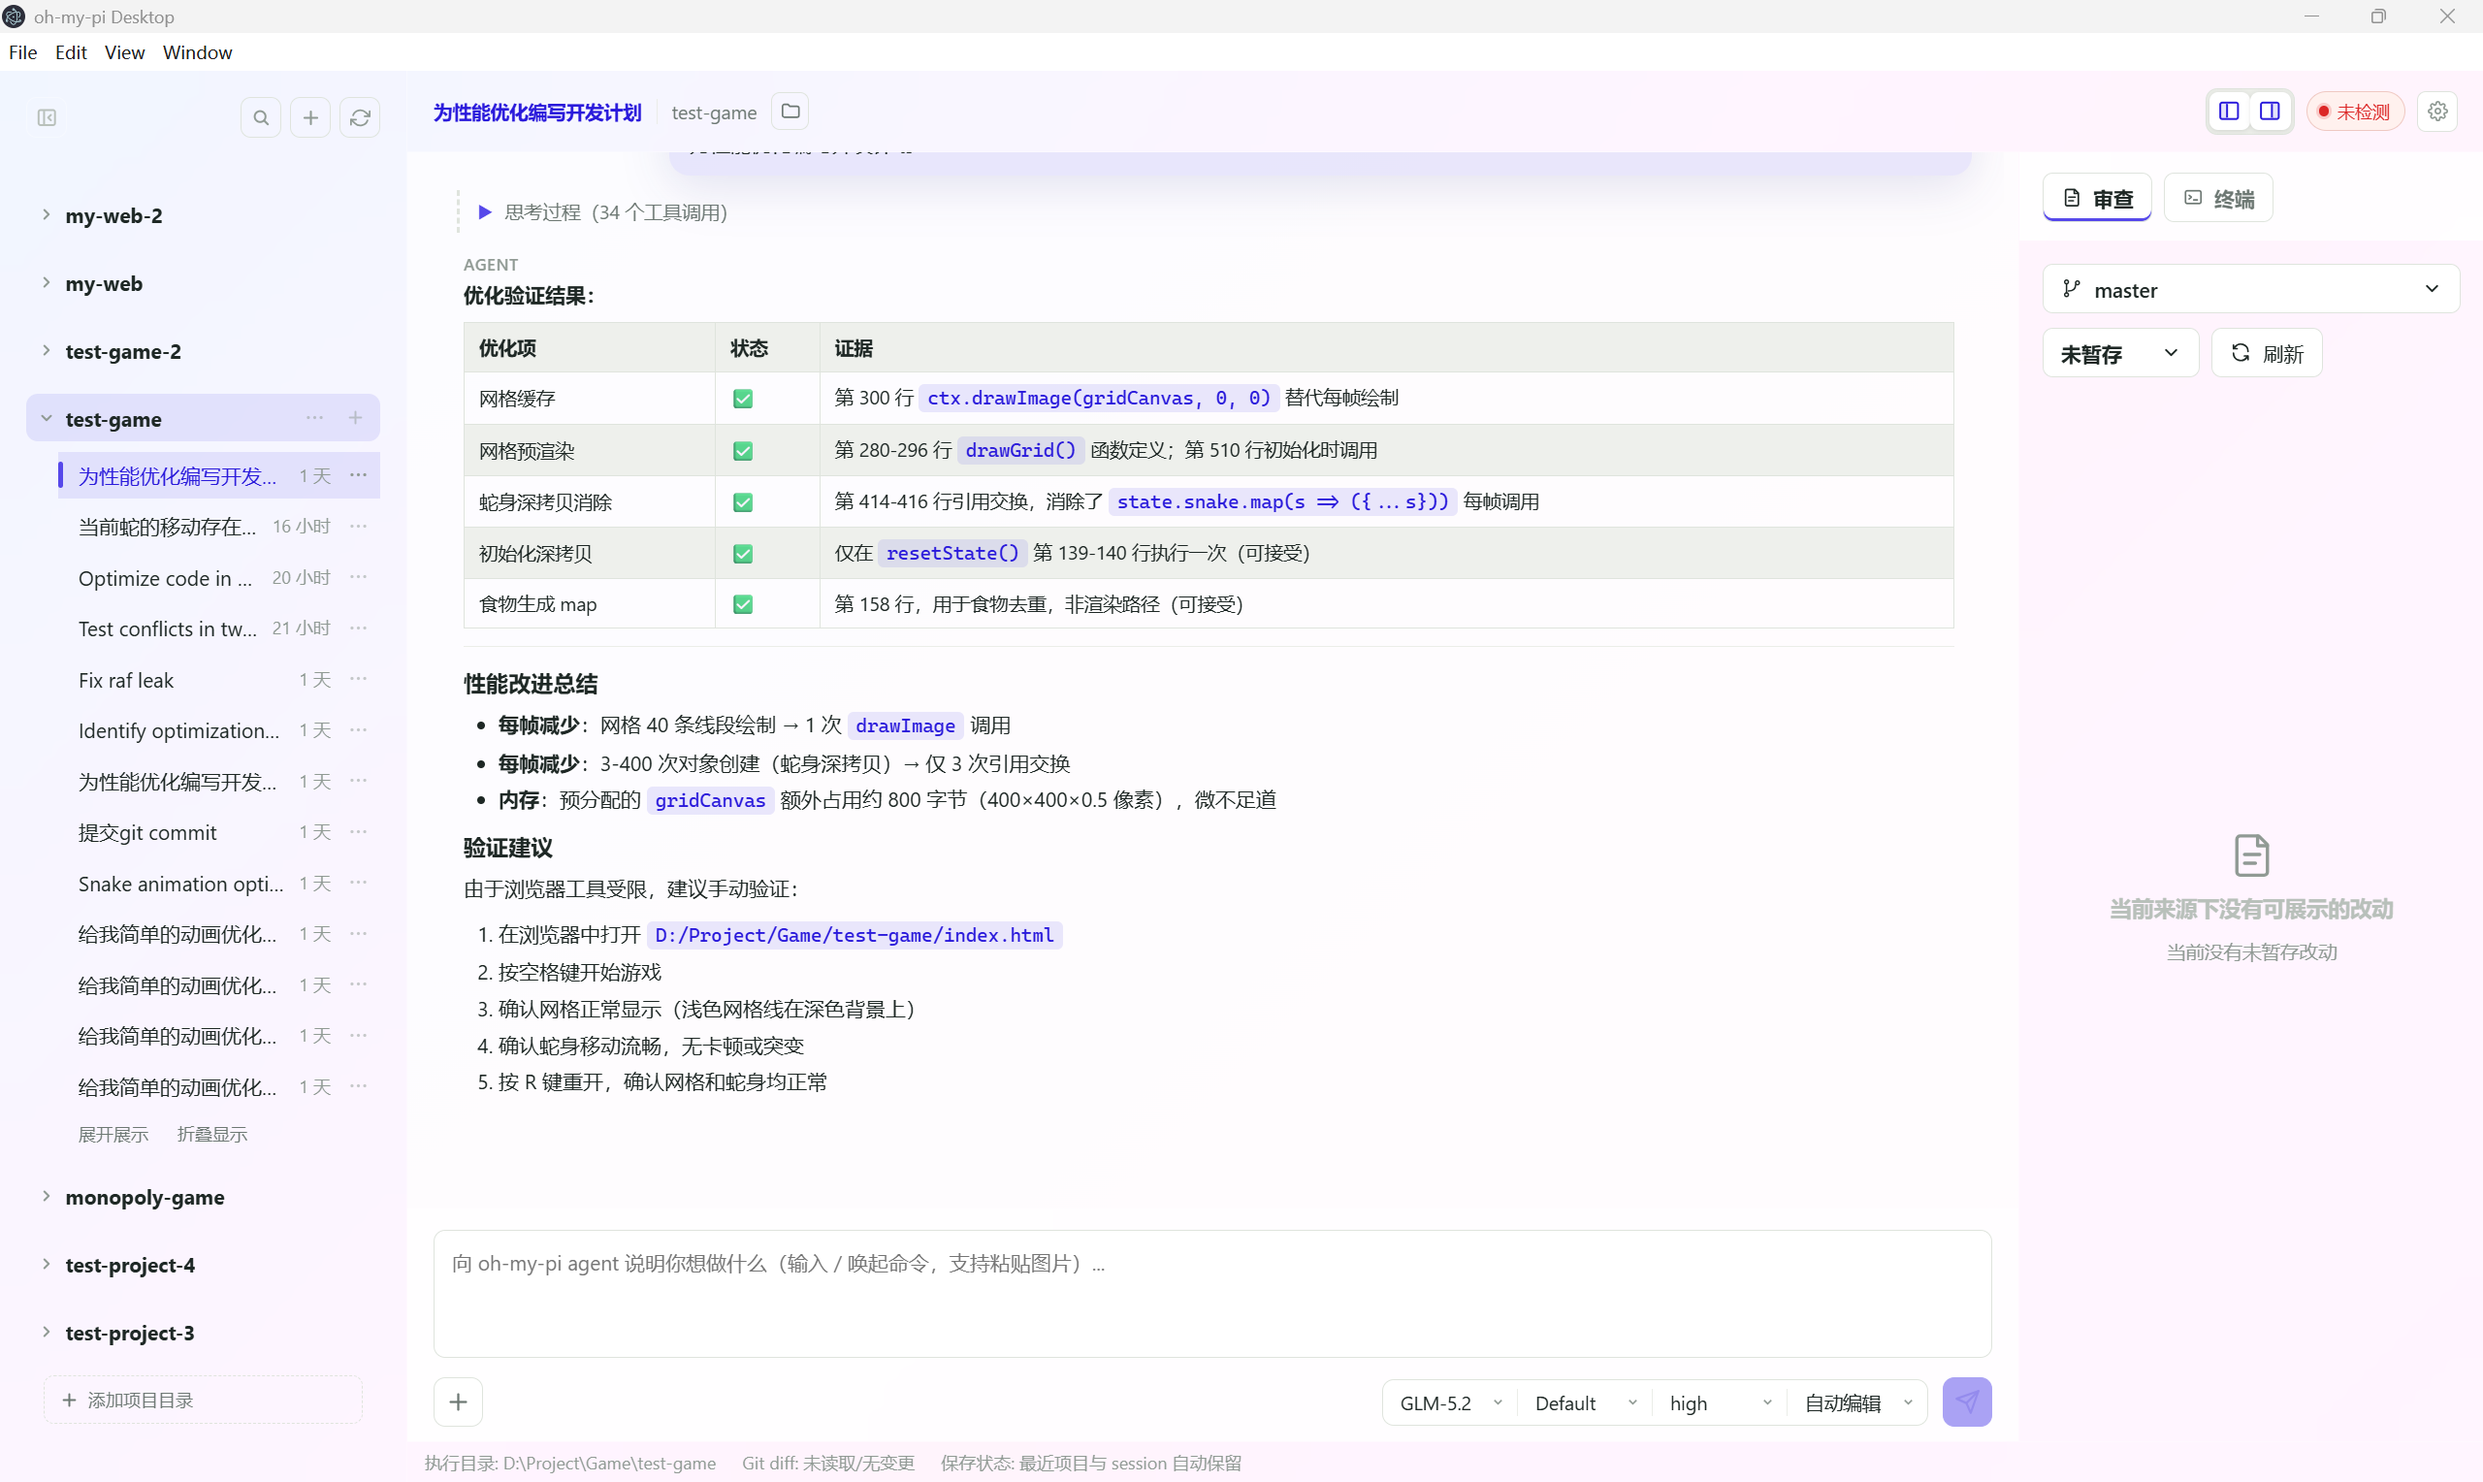
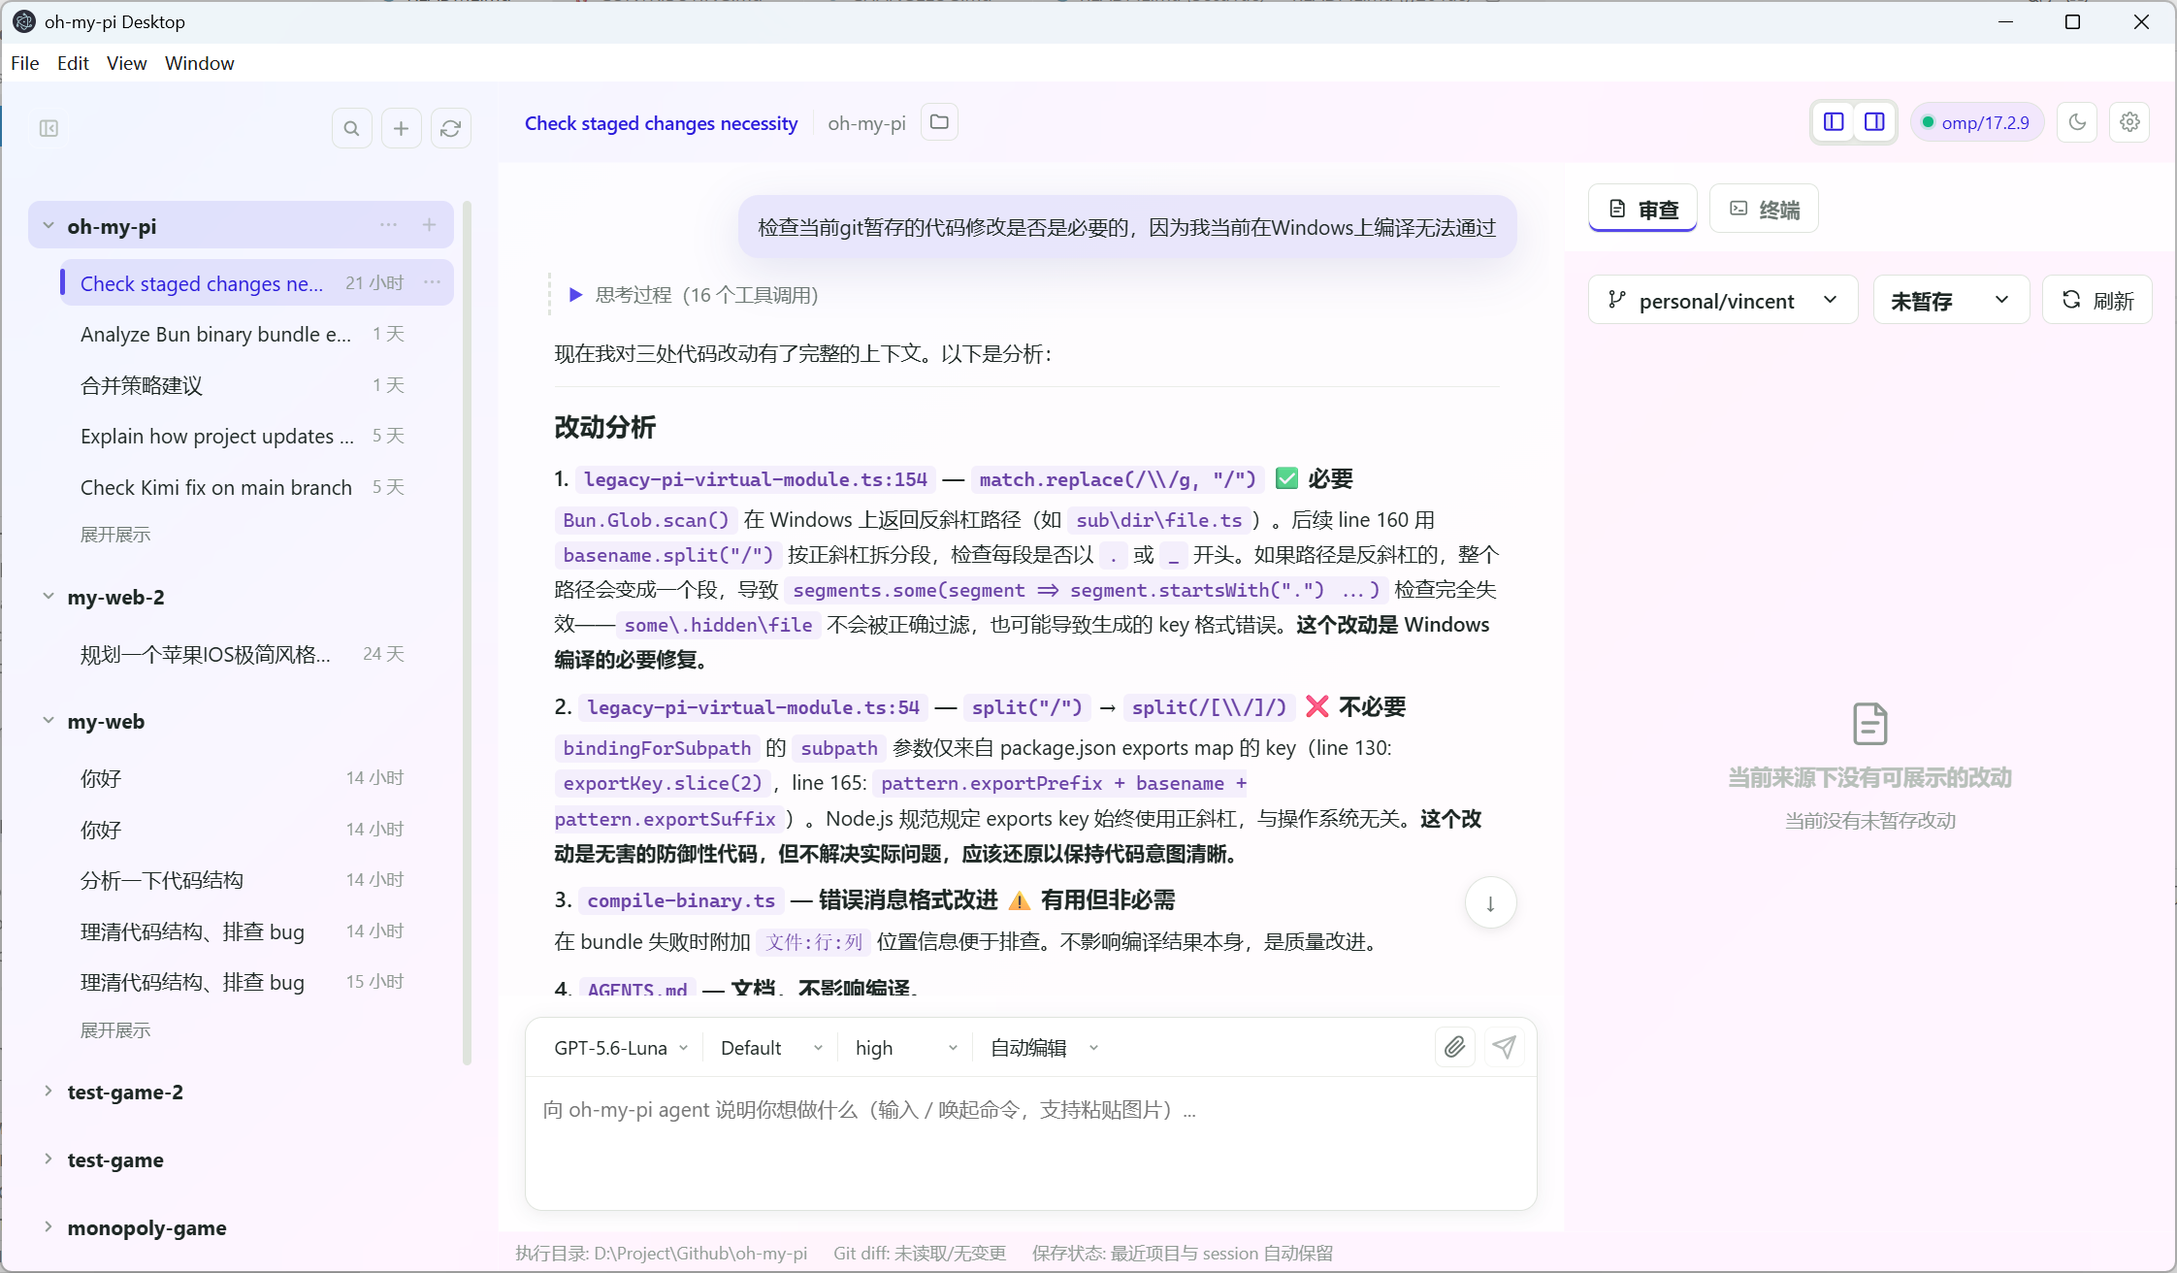
chore(release): bump version to 0.2.0
- Bump version from 0.1.0 to 0.2.0 in package.json and CLIENT_VERSION
- Reference CLIENT_VERSION in the ACP handshake instead of a hardcoded string
- Add 0.2.0 changelog entry and refresh main-window screenshots
- Document the dark theme in README

diff --git a/src/electron/agentService.ts b/src/electron/agentService.ts
@@ -36,6 +36,7 @@ import {
   upsertSession
 } from './state.js';
 import type { AgentEvent, ApprovalProfile, AcpAvailableCommand } from './types.js';
+import { CLIENT_VERSION } from './agentTypes.js';
 import type {
   AcpProcessState,
   AgentEventSender,
@@ -564,7 +565,7 @@ export const createAgentService = (sendAgentEvent: AgentEventSender): AgentServi
       clientInfo: {
         name: 'oh-my-pi-desktop',
         title: 'Oh My Pi Desktop',
-        version: '0.1.0' // CLIENT_VERSION
+        version: CLIENT_VERSION
       },
       // 声明 elicitation.form 能力：omp 内置的 ExtensionToolWrapper 第2层审批门控
       // 在 always-ask/write 模式下会走 unstable_createElicitation（form 模式）请求用户确认，

diff --git a/src/electron/agentTypes.ts b/src/electron/agentTypes.ts
@@ -23,7 +23,7 @@ import type {
 export const APPROVAL_SWITCH_CANCEL_TIMEOUT_MS = 1200;
 export const MAX_PLAN_PREVIEW_BYTES = 1024 * 1024;
 export const ACP_PROTOCOL_VERSION = 1;
-export const CLIENT_VERSION = '0.1.0';
+export const CLIENT_VERSION = '0.2.0';
 
 // ── 基础类型 ──
 

diff --git a/README.md b/README.md
@@ -4,7 +4,11 @@ oh-my-pi 的桌面客户端，指挥你的Ai模型去干活吧！
 
 你只需要负责描述需求，agent 负责执行：它会在 `omp acp` 子进程中读写文件、运行命令、审查 diff、管理 Git 分支。每个敏感操作都会先征求你的同意，所有改动看得见、可回退。
 
-当前版本 `0.1.0`，面向 Windows 平台。
+当前版本 `0.2.0`，面向 Windows 平台。
+
+![界面截图1_亮色主题](docs/images/main-window.png)
+
+![界面截图1_暗色主题](docs/images/main-window-2.png)
 
 ## 功能特性
 
@@ -14,6 +18,7 @@ oh-my-pi 的桌面客户端，指挥你的Ai模型去干活吧！
 - **会话管理**：新建、恢复、复制（Fork）、关闭，`Ctrl+K` 全局搜索历史会话
 - **代码审查**：VS Code 风格 diff 高亮，本地 Git 分支查看与切换
 - **安全可控**：敏感操作先征求同意，审批策略三档可选，模型与推理强度随时切换
+- **深色主题**：浅色/深色一键切换，选择持久化，重启后自动恢复
 
 ## 前置依赖
 
@@ -60,7 +65,7 @@ npm run dist:win
 ```
 
 - **主进程**：管理 agent 子进程生命周期、权限审批、状态持久化（JSON 文件）
-- **渲染进程**：React 19 三栏 UI，通过 34 个 IPC 通道与主进程通信
+- **渲染进程**：React 19 三栏 UI，通过 35 个 IPC 通道与主进程通信
 - **agent 子进程**：`omp acp`，通过 stdio JSON-RPC 与主进程交互
 
 ## 技术栈
@@ -80,7 +85,7 @@ src/
 ├── electron/                 # 主进程
 │   ├── main.ts               # 应用入口
 │   ├── window.ts             # BrowserWindow 工厂
-│   ├── preload.ts            # contextBridge（34 invoke + 1 事件通道）
+│   ├── preload.ts            # contextBridge（35 invoke + 1 事件通道）
 │   ├── ipc.ts                # IPC handler 注册
 │   ├── agentService.ts       # agent 子进程管理与 JSON-RPC 解析
 │   ├── agentPlan.ts          # ACP plan 事件解析
@@ -96,6 +101,7 @@ src/
 │   ├── components/           # UI 组件（TopBar / ProjectPane / ChatWorkspace / 各弹窗等，同名 .css 配套）
 │   ├── hooks/                # 业务逻辑 hooks（useAppCore / useAgentEvents / useSessionLifecycle 等）
 │   ├── lib/                  # 纯逻辑模块（slashCommands / paneLayout / attachments / messageMerge 等）
+│   ├── theme.ts              # 主题注册表与切换（applyTheme / toggleTheme）
 │   ├── highlight-themes/     # 代码高亮主题
 │   ├── types.ts              # 渲染层类型定义
 │   ├── utils.ts              # 工具函数

diff --git a/CHANGELOG.md b/CHANGELOG.md
@@ -4,17 +4,26 @@
 
 ## [Unreleased]
 
+## [0.2.0] - 2026-08-08
+
 ### 新增
 
 - **布局优化**：窄窗口自适应（避免横向/纵向滚动条），侧栏折叠状态持久化
+- **主题系统**：浅色 / 深色切换与持久化
+- **输入区优化**：内容溢出时自动增高并显示滚动条，配置与操作按钮合并为统一卡片布局
+- **快捷键优化**：改善发送用户消息的键盘快捷键
 
 ### 修复
 
 - 重启后 OMP 状态始终显示"未检测"的问题
 - Fork 失败后 usageBySession 残留占位 session 条目
+- Fork 后 session 标题与历史记录缺失的问题
 - 窗口缩窄时出现横向与纵向滚动条的问题
 - ProjectPane 会话菜单被 `overflow: hidden` 裁剪导致不可见
 - ProjectPane 折叠/展开会话时滚动条位置不稳定，优化滚动条稳定性、交互细节与视觉间距
+- 回合结束时冗余的消息显示
+- Markdown 代码块与表格配色
+- 同步 omp CLI 至 v17.2.9
 
 ## [0.1.0] - 2026-07-15
 
